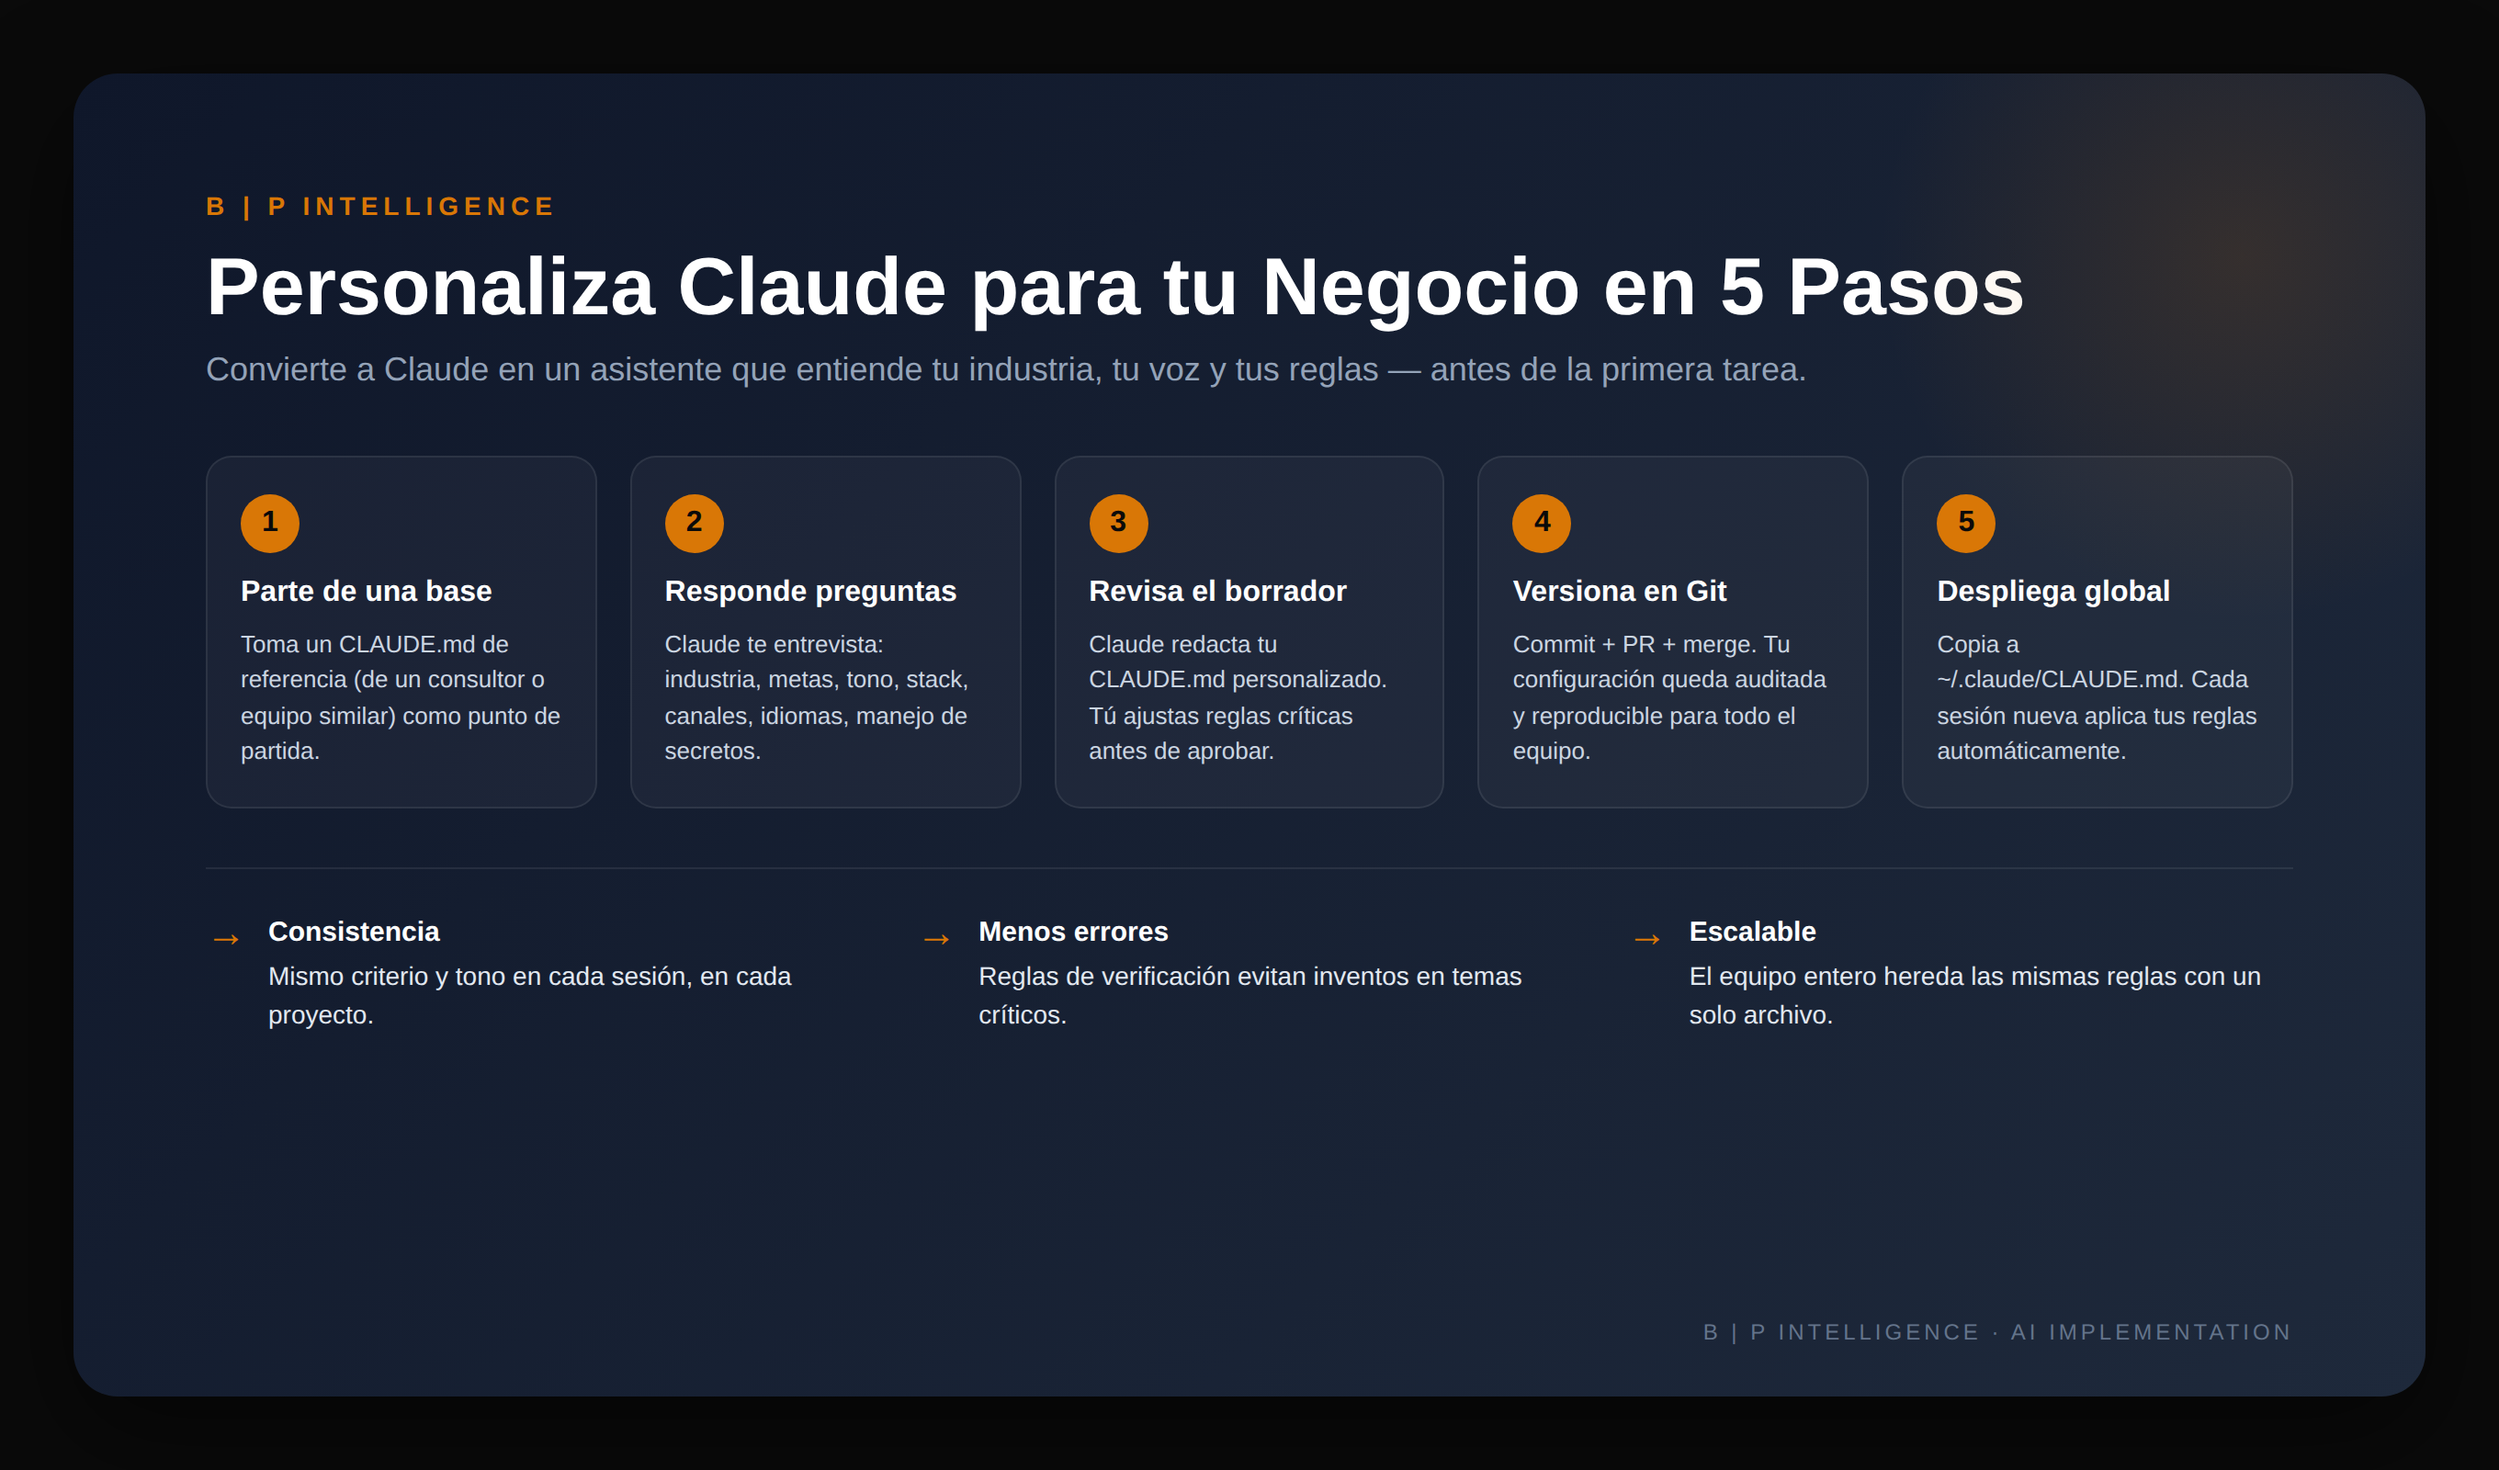
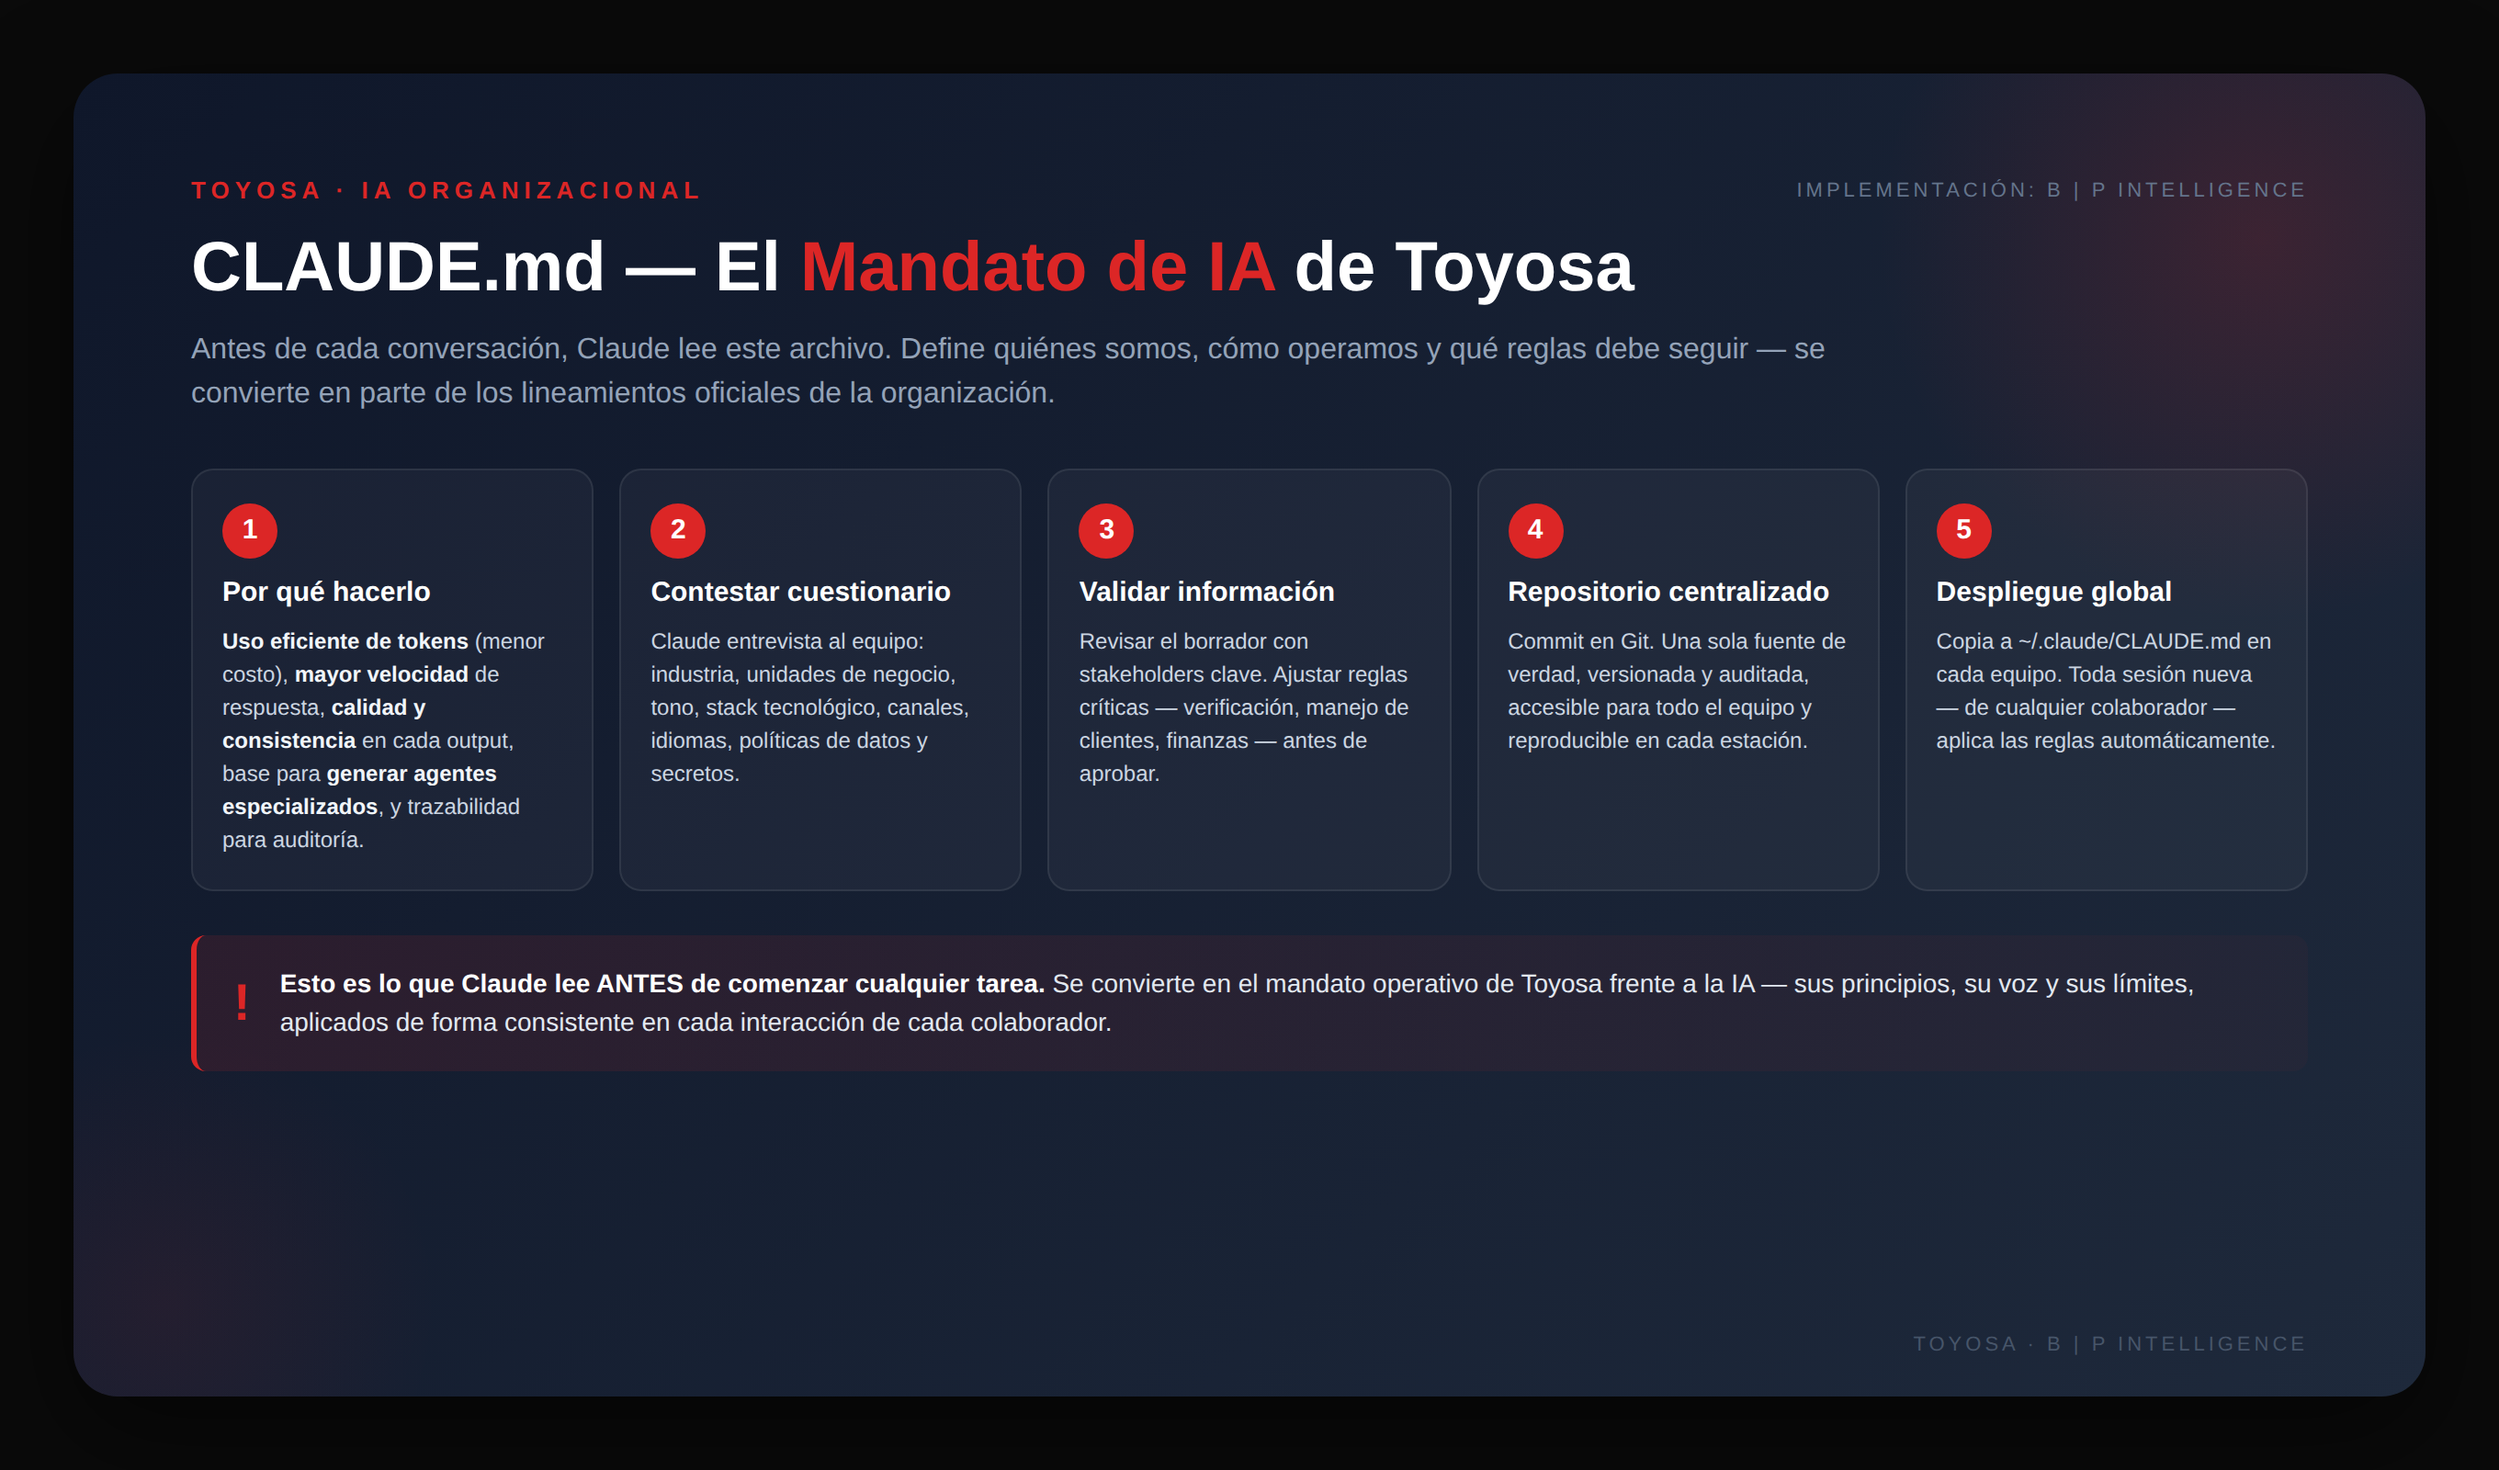
Customize CLAUDE.md slide for Toyosa
Rebranded to Toyosa with B|P Intelligence as implementation partner.
Updated 5 steps per client feedback: why (token efficiency, speed,
quality, agent generation), questionnaire, validation, centralized repo,
global deployment. Added mandate callout emphasizing that this is what
Claude reads before every task.

https://claude.ai/code/session_01Kicd4t2i9A1dWVcigdbhxh

diff --git a/slide-claude-md-proceso.html b/slide-claude-md-proceso.html
@@ -2,7 +2,7 @@
 <html lang="es">
 <head>
 <meta charset="UTF-8">
-<title>Personalizar Claude para tu Negocio</title>
+<title>CLAUDE.md — Mandato Organizacional de IA para Toyosa</title>
 <style>
   * { box-sizing: border-box; margin: 0; padding: 0; }
   body {
@@ -20,7 +20,7 @@
     height: 720px;
     background: linear-gradient(135deg, #0f172a 0%, #1e293b 100%);
     border-radius: 24px;
-    padding: 64px 72px;
+    padding: 56px 64px;
     display: flex;
     flex-direction: column;
     box-shadow: 0 20px 60px rgba(0,0,0,0.5);
@@ -30,173 +30,188 @@
   .slide::before {
     content: "";
     position: absolute;
-    top: -100px; right: -100px;
-    width: 400px; height: 400px;
-    background: radial-gradient(circle, rgba(217, 119, 6, 0.15) 0%, transparent 70%);
+    top: -120px; right: -120px;
+    width: 420px; height: 420px;
+    background: radial-gradient(circle, rgba(220, 38, 38, 0.18) 0%, transparent 70%);
     border-radius: 50%;
   }
+  .slide::after {
+    content: "";
+    position: absolute;
+    bottom: -100px; left: -100px;
+    width: 300px; height: 300px;
+    background: radial-gradient(circle, rgba(220, 38, 38, 0.08) 0%, transparent 70%);
+    border-radius: 50%;
+  }
+  .header {
+    display: flex;
+    justify-content: space-between;
+    align-items: center;
+    margin-bottom: 14px;
+    position: relative;
+    z-index: 1;
+  }
   .brand {
-    font-size: 14px;
+    font-size: 13px;
     letter-spacing: 3px;
-    color: #d97706;
-    font-weight: 600;
-    margin-bottom: 12px;
+    color: #dc2626;
+    font-weight: 700;
+    text-transform: uppercase;
+  }
+  .partner {
+    font-size: 11px;
+    letter-spacing: 2px;
+    color: #64748b;
+    font-weight: 500;
     text-transform: uppercase;
   }
   h1 {
-    font-size: 44px;
+    font-size: 38px;
     line-height: 1.15;
     font-weight: 700;
-    margin-bottom: 8px;
+    margin-bottom: 10px;
     color: #ffffff;
+    position: relative;
+    z-index: 1;
   }
+  h1 .accent { color: #dc2626; }
   .subtitle {
-    font-size: 18px;
+    font-size: 16px;
     color: #94a3b8;
-    margin-bottom: 36px;
+    margin-bottom: 28px;
     font-weight: 400;
+    line-height: 1.5;
+    max-width: 920px;
+    position: relative;
+    z-index: 1;
   }
   .steps {
     display: grid;
     grid-template-columns: repeat(5, 1fr);
-    gap: 18px;
-    margin-bottom: 32px;
+    gap: 14px;
+    margin-bottom: 24px;
     position: relative;
     z-index: 1;
   }
   .step {
     background: rgba(255,255,255,0.04);
     border: 1px solid rgba(255,255,255,0.08);
-    border-radius: 14px;
-    padding: 20px 18px;
+    border-radius: 12px;
+    padding: 18px 16px;
     display: flex;
     flex-direction: column;
   }
   .step-num {
-    width: 32px;
-    height: 32px;
+    width: 30px;
+    height: 30px;
     border-radius: 50%;
-    background: #d97706;
-    color: #0a0a0a;
+    background: #dc2626;
+    color: #ffffff;
     font-weight: 700;
-    font-size: 16px;
+    font-size: 15px;
     display: flex;
     align-items: center;
     justify-content: center;
-    margin-bottom: 12px;
+    margin-bottom: 10px;
   }
   .step-title {
-    font-size: 16px;
-    font-weight: 600;
+    font-size: 15px;
+    font-weight: 700;
     color: #ffffff;
     margin-bottom: 8px;
     line-height: 1.25;
   }
   .step-desc {
-    font-size: 13px;
+    font-size: 12px;
     color: #cbd5e1;
     line-height: 1.5;
   }
-  .benefits {
-    display: flex;
-    gap: 24px;
-    padding-top: 24px;
-    border-top: 1px solid rgba(255,255,255,0.08);
+  .step-desc strong { color: #f1f5f9; }
+  .mandate {
+    background: linear-gradient(90deg, rgba(220, 38, 38, 0.12) 0%, rgba(220, 38, 38, 0.04) 100%);
+    border-left: 3px solid #dc2626;
+    border-radius: 8px;
+    padding: 16px 20px;
     position: relative;
     z-index: 1;
-  }
-  .benefit {
-    flex: 1;
     display: flex;
-    align-items: flex-start;
-    gap: 12px;
+    align-items: center;
+    gap: 16px;
   }
-  .benefit-icon {
-    font-size: 22px;
-    line-height: 1;
-    color: #d97706;
+  .mandate-icon {
+    font-size: 28px;
+    color: #dc2626;
     font-weight: 700;
+    line-height: 1;
   }
-  .benefit-text {
+  .mandate-text {
     font-size: 14px;
     color: #e2e8f0;
     line-height: 1.5;
   }
-  .benefit-text strong {
+  .mandate-text strong {
     color: #ffffff;
-    display: block;
-    font-size: 15px;
-    margin-bottom: 2px;
+    font-weight: 700;
   }
   .footer {
     position: absolute;
-    bottom: 28px;
-    right: 72px;
-    font-size: 12px;
-    color: #64748b;
+    bottom: 22px;
+    right: 64px;
+    font-size: 11px;
+    color: #475569;
     letter-spacing: 2px;
+    z-index: 1;
   }
 </style>
 </head>
 <body>
 <div class="slide">
-  <div class="brand">B | P Intelligence</div>
-  <h1>Personaliza Claude para tu Negocio en 5 Pasos</h1>
-  <div class="subtitle">Convierte a Claude en un asistente que entiende tu industria, tu voz y tus reglas — antes de la primera tarea.</div>
+  <div class="header">
+    <div class="brand">TOYOSA  ·  IA ORGANIZACIONAL</div>
+    <div class="partner">Implementación: B | P Intelligence</div>
+  </div>
+
+  <h1>CLAUDE.md — El <span class="accent">Mandato de IA</span> de Toyosa</h1>
+  <div class="subtitle">Antes de cada conversación, Claude lee este archivo. Define quiénes somos, cómo operamos y qué reglas debe seguir — se convierte en parte de los lineamientos oficiales de la organización.</div>
 
   <div class="steps">
     <div class="step">
       <div class="step-num">1</div>
-      <div class="step-title">Parte de una base</div>
-      <div class="step-desc">Toma un CLAUDE.md de referencia (de un consultor o equipo similar) como punto de partida.</div>
+      <div class="step-title">Por qué hacerlo</div>
+      <div class="step-desc">
+        <strong>Uso eficiente de tokens</strong> (menor costo), <strong>mayor velocidad</strong> de respuesta, <strong>calidad y consistencia</strong> en cada output, base para <strong>generar agentes especializados</strong>, y trazabilidad para auditoría.
+      </div>
     </div>
     <div class="step">
       <div class="step-num">2</div>
-      <div class="step-title">Responde preguntas</div>
-      <div class="step-desc">Claude te entrevista: industria, metas, tono, stack, canales, idiomas, manejo de secretos.</div>
+      <div class="step-title">Contestar cuestionario</div>
+      <div class="step-desc">Claude entrevista al equipo: industria, unidades de negocio, tono, stack tecnológico, canales, idiomas, políticas de datos y secretos.</div>
     </div>
     <div class="step">
       <div class="step-num">3</div>
-      <div class="step-title">Revisa el borrador</div>
-      <div class="step-desc">Claude redacta tu CLAUDE.md personalizado. Tú ajustas reglas críticas antes de aprobar.</div>
+      <div class="step-title">Validar información</div>
+      <div class="step-desc">Revisar el borrador con stakeholders clave. Ajustar reglas críticas — verificación, manejo de clientes, finanzas — antes de aprobar.</div>
     </div>
     <div class="step">
       <div class="step-num">4</div>
-      <div class="step-title">Versiona en Git</div>
-      <div class="step-desc">Commit + PR + merge. Tu configuración queda auditada y reproducible para todo el equipo.</div>
+      <div class="step-title">Repositorio centralizado</div>
+      <div class="step-desc">Commit en Git. Una sola fuente de verdad, versionada y auditada, accesible para todo el equipo y reproducible en cada estación.</div>
     </div>
     <div class="step">
       <div class="step-num">5</div>
-      <div class="step-title">Despliega global</div>
-      <div class="step-desc">Copia a ~/.claude/CLAUDE.md. Cada sesión nueva aplica tus reglas automáticamente.</div>
+      <div class="step-title">Despliegue global</div>
+      <div class="step-desc">Copia a ~/.claude/CLAUDE.md en cada equipo. Toda sesión nueva — de cualquier colaborador — aplica las reglas automáticamente.</div>
     </div>
   </div>
 
-  <div class="benefits">
-    <div class="benefit">
-      <div class="benefit-icon">→</div>
-      <div class="benefit-text">
-        <strong>Consistencia</strong>
-        Mismo criterio y tono en cada sesión, en cada proyecto.
-      </div>
-    </div>
-    <div class="benefit">
-      <div class="benefit-icon">→</div>
-      <div class="benefit-text">
-        <strong>Menos errores</strong>
-        Reglas de verificación evitan inventos en temas críticos.
-      </div>
-    </div>
-    <div class="benefit">
-      <div class="benefit-icon">→</div>
-      <div class="benefit-text">
-        <strong>Escalable</strong>
-        El equipo entero hereda las mismas reglas con un solo archivo.
-      </div>
+  <div class="mandate">
+    <div class="mandate-icon">!</div>
+    <div class="mandate-text">
+      <strong>Esto es lo que Claude lee ANTES de comenzar cualquier tarea.</strong> Se convierte en el mandato operativo de Toyosa frente a la IA — sus principios, su voz y sus límites, aplicados de forma consistente en cada interacción de cada colaborador.
     </div>
   </div>
 
-  <div class="footer">B | P INTELLIGENCE  ·  AI IMPLEMENTATION</div>
+  <div class="footer">TOYOSA  ·  B | P INTELLIGENCE</div>
 </div>
 </body>
 </html>
